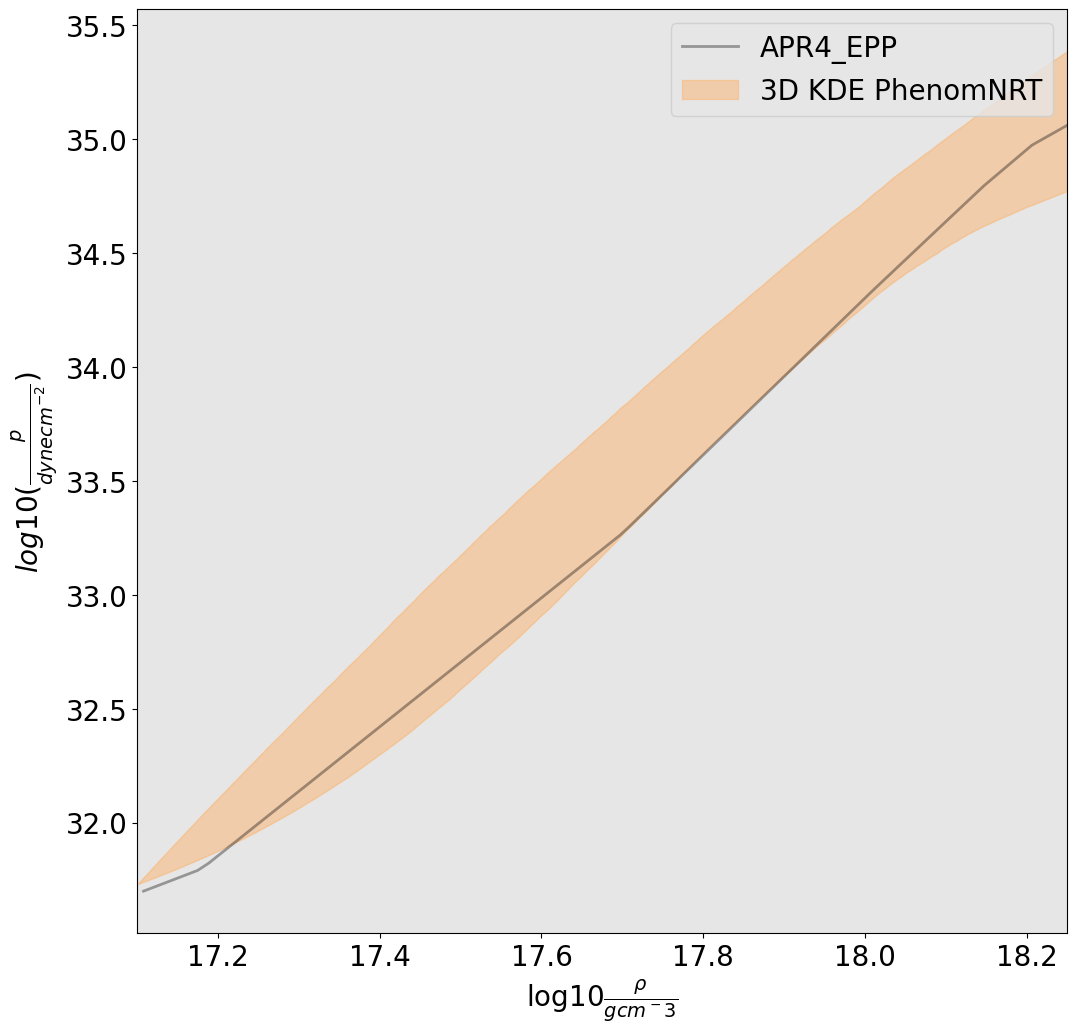
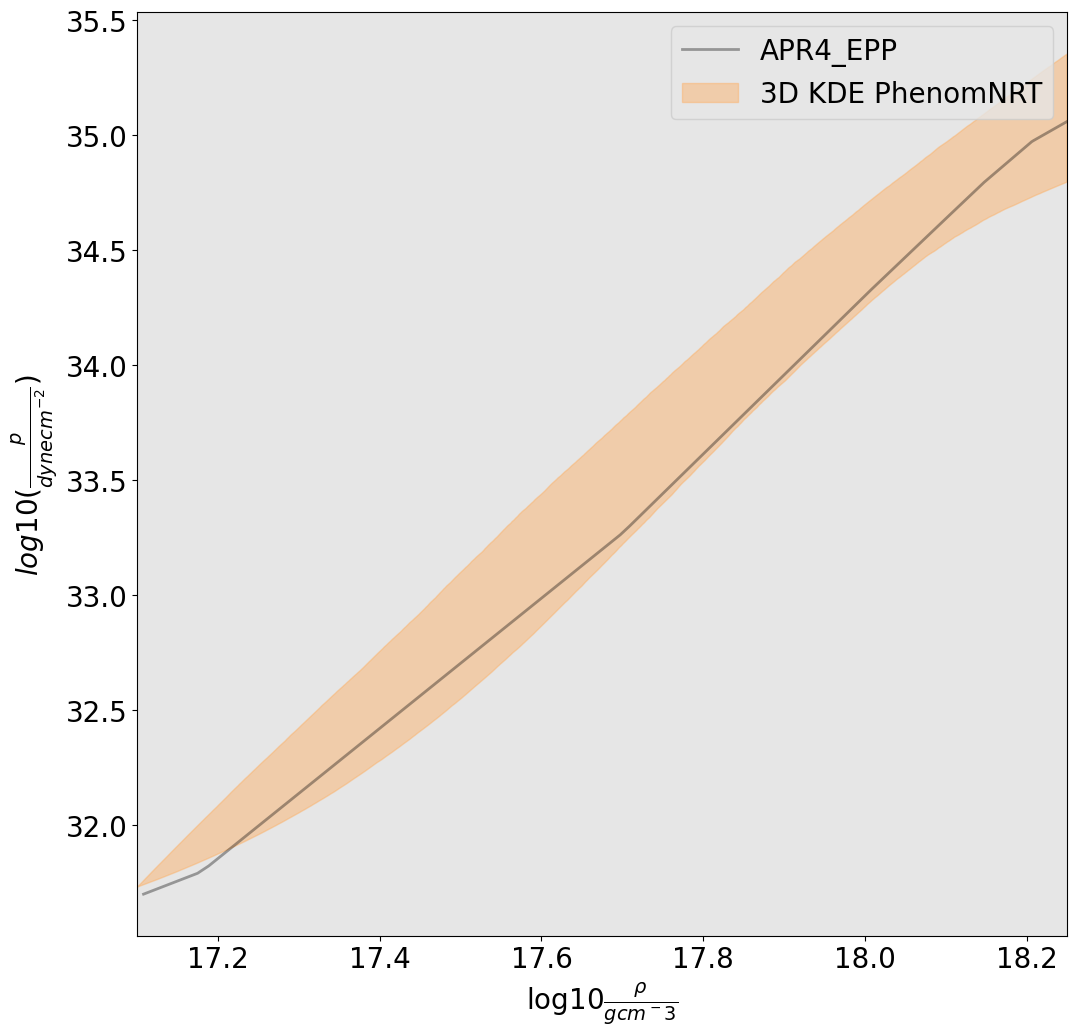
NSBH simulation plots

diff --git a/year3/lastStretch/simulConstraint.py b/year3/lastStretch/simulConstraint.py
@@ -114,12 +114,12 @@ def calcConstraint2(burn_in_frac=0.5,thinning=None):
 def plotConstraint():
     # Adopted from Anarya's GWXtreme 3d kde prod branch's plotting logic.
 
-    labels = ["2D-KDE-TaylorF2", "3D-KDE-TaylorF2", "3D-KDE-PhenomNRT"]
-    #labels = ["3D-KDE-PhenomNRT"]
-    Labels = ["2D KDE TaylorF2", "3D KDE TaylorF2", "3D KDE PhenomNRT"]
-    #Labels = ["3D KDE PhenomNRT"]
-    Colors = ['#ffffb3','#bebada','#fb8072']
-    #Colors = ["#fdae61"]
+    #labels = ["2D-KDE-TaylorF2", "3D-KDE-TaylorF2", "3D-KDE-PhenomNRT"]
+    labels = ["3D-KDE-PhenomNRT"]
+    #Labels = ["2D KDE TaylorF2", "3D KDE TaylorF2", "3D KDE PhenomNRT"]
+    Labels = ["3D KDE PhenomNRT"]
+    #Colors = ['#ffffb3','#bebada','#fb8072']
+    Colors = ["#fdae61"]
 
     plt.figure(figsize=(12,12))
     plt.rc('font', size=20)
@@ -133,8 +133,8 @@ def plotConstraint():
     for label, Label, Color, Hatch in zip(labels,Labels,Colors,Hatches): # increment over each plot file
 
         # Load the samples
-        filename='data/BNS/constraints/{}_16simulationsInference.txt'.format(label)
-        #filename='data/NSBH/constraints/{}_18simulationsInference_1000samp.txt'.format(label)
+        #filename='data/BNS/constraints/{}_16simulationsInference.txt'.format(label)
+        filename='data/NSBH/constraints/{}_18simulationsInference_1000samp.txt'.format(label)
         rho, lower_bound, median, upper_bound = np.loadtxt(filename).T
 
         #plt.plot(lower_bound, rho, label=Label, color=Color)
@@ -151,6 +151,6 @@ def plotConstraint():
     plt.xlabel(r'$\log10{\frac{\rho}{g cm^-3}}$',fontsize=20)
     plt.ylabel(r'$log10(\frac{p}{dyne cm^{-2}})$',fontsize=20)
     plt.legend()
-    plt.savefig("plots/BNS/constraints/16simulations_constraint.png", bbox_inches='tight')
-    #plt.savefig("plots/NSBH/constraints/18simulations_1000samp_constraint.png", bbox_inches='tight')
+    #plt.savefig("plots/BNS/constraints/16simulations_constraint.png", bbox_inches='tight')
+    plt.savefig("plots/NSBH/constraints/18simulations_1000samp_constraint.png", bbox_inches='tight')
 

diff --git a/year3/lastStretch/errorBar.py b/year3/lastStretch/errorBar.py
@@ -1,0 +1,22 @@
+
+
+for EoS in nest_data.keys():                                                                                                                                                        [12/1985]
+    EoS1 = nest_data[EoS][0]
+    EoS2 = nest_data['SLY'][0]
+    BF = EoS1/EoS2
+
+    EoS1err = nest_data[EoS][-1]
+    EoS2err = nest_data['SLY'][-1]
+
+    EoS1min, EoS1max = EoS1-EoS1err, EoS1+EoS1err
+    EoS2min, EoS2max = EoS2-EoS2err, EoS2+EoS2err
+
+    ErrMin = EoS1max/EoS2min
+    ErrMax = EoS1min/EoS2max
+    ErrMax - ErrMin
+
+    Phenom_EoS_BF_err[EoS] = [BF,[err]]
+4626/34: data['IMRPhenom LALInference_Nest'] = Phenom_EoS_BF_err
+4626/35:
+with open("data/BNS/BFs/GW170817_2D_3D_BFs.json","w") as f:
+    json.dump(data, f, indent=2, sort_keys=True)
